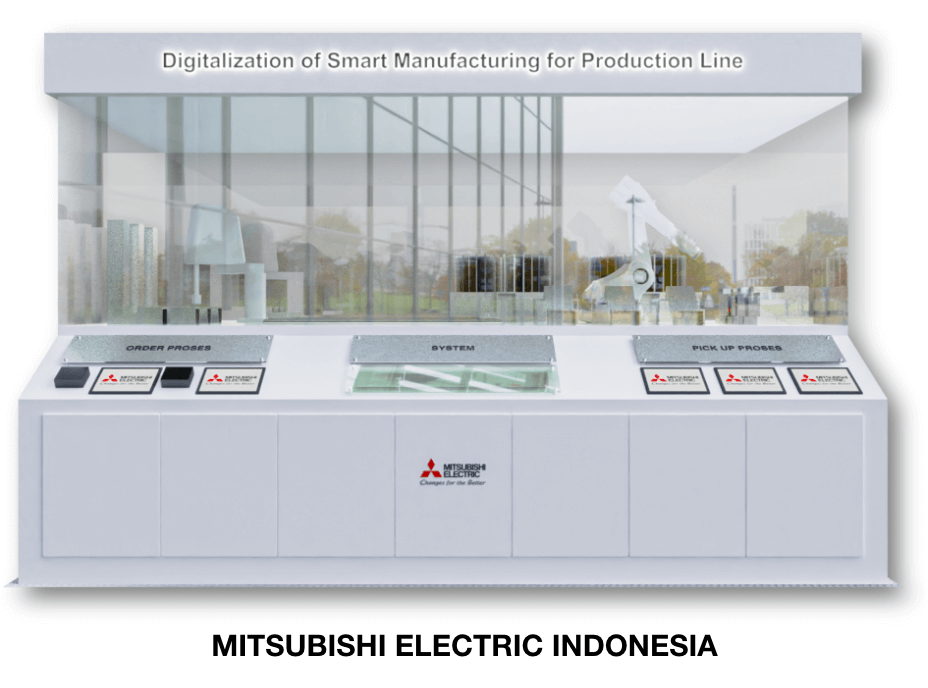
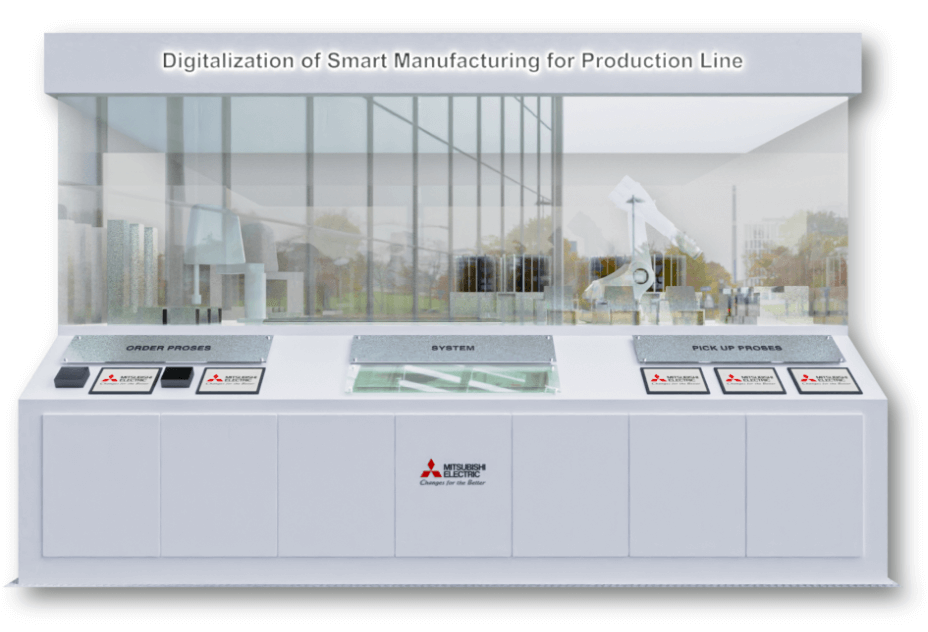
fix: No.25 - Revise the name on the picture, should be visible & Take out "Mitsubishi Electric Indonesia" under demokit image

diff --git a/fa/id_en/events-seminars/showroom-cikarang/B-1.html b/fa/id_en/events-seminars/showroom-cikarang/B-1.html
@@ -73,12 +73,12 @@
       <p class="c-text"><strong>1. Order Process:</strong> Customers can register through “QR Code for registration”. After registration, the system automatically generates a QR Code in the "Thank You Message" for the retrieval of the e-Money card gift. Please scan the those QR Code into the Barcode Reader in the "Order Process" area. Customers can choose the design from 3 visual illustrations of the "Automating the World" slogan for the available e-Money card gift on the Human Machine Interfaces-GOT device.
       </p>
       <p class="c-text">e-Money Design Options based on visual illustrations of the "Automating the World" slogan :      </p>
-      <div class="c-img size_down-2"><img src="/fa/id_en/events-seminars/assets/img/showroom/B1/B1-2.png" alt="" decoding="async"></div>
+      <div class="c-img size_down-2"><img src="/fa/id_en/events-seminars/assets/img/showroom/B1/B1-3rev.png" alt="" decoding="async"></div>
 
       <p class="c-text"><strong>2. Printing Process:</strong> Customers can personalize the e-money cards by entering their name into the system, which will then automatically apply their custom name to the e-money design, creating a unique and personalized product.
       </p>
       <p class="c-text">Example of e-Money personalization :      </p>
-      <div class="c-img size_down-2"><img src="/fa/id_en/events-seminars/assets/img/showroom/B1/B1-3.png" alt="" decoding="async"></div>
+      <div class="c-img size_down-2"><img src="/fa/id_en/events-seminars/assets/img/showroom/B1/B1-3rev.png" alt="" decoding="async"></div>
 
       <p class="c-text"><strong>3. Pick Up Process:</strong> In the "Pick Up Process" area, customers can retrieve their selected design and have the opportunity to confirm the accuracy and appearance base on their personalization on the Human Machine Interfaces (HMI) GOT device, ensuring that the customized details meet their expectations before finalizing the process.
       </p>

diff --git a/fa/id_id/events-seminars/showroom-cikarang/B-1.html b/fa/id_id/events-seminars/showroom-cikarang/B-1.html
@@ -73,12 +73,12 @@
       <p class="c-text"><strong>1. Proses Pemesanan:</strong> Pelanggan dapat mendaftar melalui "Kode QR untuk pendaftaran". Setelah registrasi, sistem secara otomatis membuat Kode QR di "Pesan Terima Kasih" untuk pengambilan hadiah kartu e-Money. Harap pindai Kode QR tersebut ke Pembaca Kode Batang di area "Proses Pemesanan". Pelanggan dapat memilih desain dari 3 ilustrasi visual slogan "Mengotomatiskan Dunia" untuk hadiah kartu e-Money yang tersedia di perangkat Human Machine Interfaces-GOT.
       </p>
       <p class="c-text">Pilihan Desain e-Money berdasarkan ilustrasi visual slogan "Mengotomatiskan Dunia" : </p>
-      <div class="c-img size_down-2"><img src="/fa/id_id/events-seminars/assets/img/showroom/B1/B1-2.png" alt="" decoding="async"></div>
+      <div class="c-img size_down-2"><img src="/fa/id_id/events-seminars/assets/img/showroom/B1/B1-3rev.png" alt="" decoding="async"></div>
 
       <p class="c-text"><strong>2. Proses Pencetakan:</strong> Pelanggan dapat mempersonalisasi kartu e-money dengan memasukkan nama mereka ke dalam sistem, yang kemudian akan secara otomatis menerapkan nama khusus mereka ke desain e-money, menciptakan produk yang unik dan personal.
       </p>
       <p class="c-text">Contoh personalisasi e-Money: </p>
-      <div class="c-img size_down-2"><img src="/fa/id_id/events-seminars/assets/img/showroom/B1/B1-3.png" alt="" decoding="async"></div>
+      <div class="c-img size_down-2"><img src="/fa/id_id/events-seminars/assets/img/showroom/B1/B1-3rev.png" alt="" decoding="async"></div>
 
       <p class="c-text"><strong>3. Proses Pengambilan:</strong> Di area "Proses Pengambilan", pelanggan dapat mengambil desain yang dipilih dan berkesempatan untuk mengonfirmasi keakuratan dan tampilan berdasarkan personalisasi mereka pada perangkat Human Machine Interfaces (HMI) GOT, memastikan bahwa detail yang disesuaikan memenuhi harapan mereka sebelum menyelesaikan proses.
       </p>
